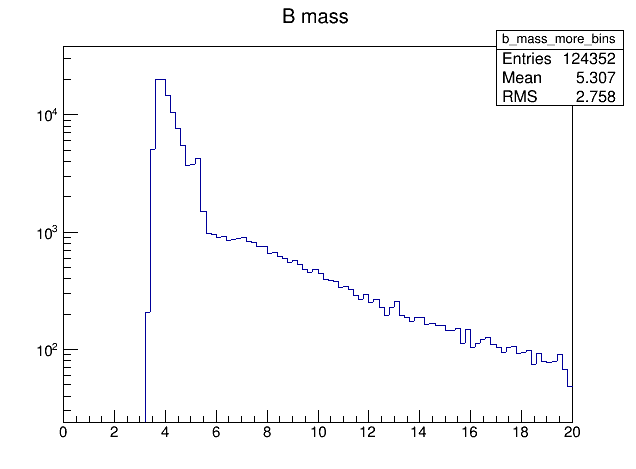
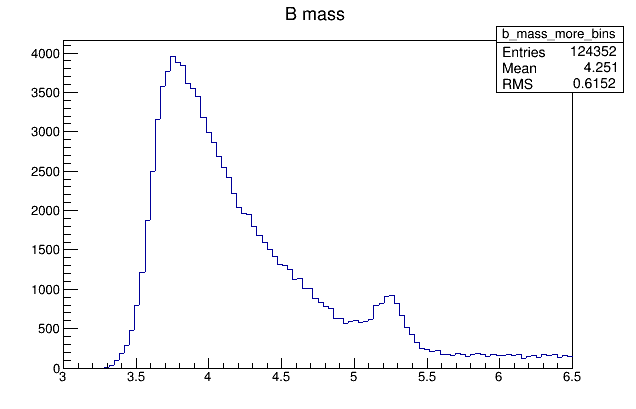
Change x limits on B distribution

diff --git a/week1/b_read_root.cpp b/week1/b_read_root.cpp
@@ -29,14 +29,12 @@ int main() {
 
     string rootFileName = "b_mass.root";
     TFile *rootOutFile = new TFile(rootFileName.c_str(), "recreate"); // This is a root file for storing our histograms
-    gPad->Update();
-    gPad->SetLogy();
 
-    TH1D *b_mass = new TH1D("b_mass", "B mass ", 50, 0, 20); // this is a histogram
+    TH1D *b_mass = new TH1D("b_mass", "B mass ", 50, 3, 6.5); // this is a histogram
     // it has a 50 bins, equally spaced between 50 and 100 GeV
     // the b_mass has to be repetated twice
     // a second one with more bins could be called
-    TH1D *b_mass_more_bins = new TH1D("b_mass_more_bins", "B mass ", 100, 0, 20);
+    TH1D *b_mass_more_bins = new TH1D("b_mass_more_bins", "B mass ", 100, 3, 6.5);
     // it has 100 bins
 
     // declare variables
